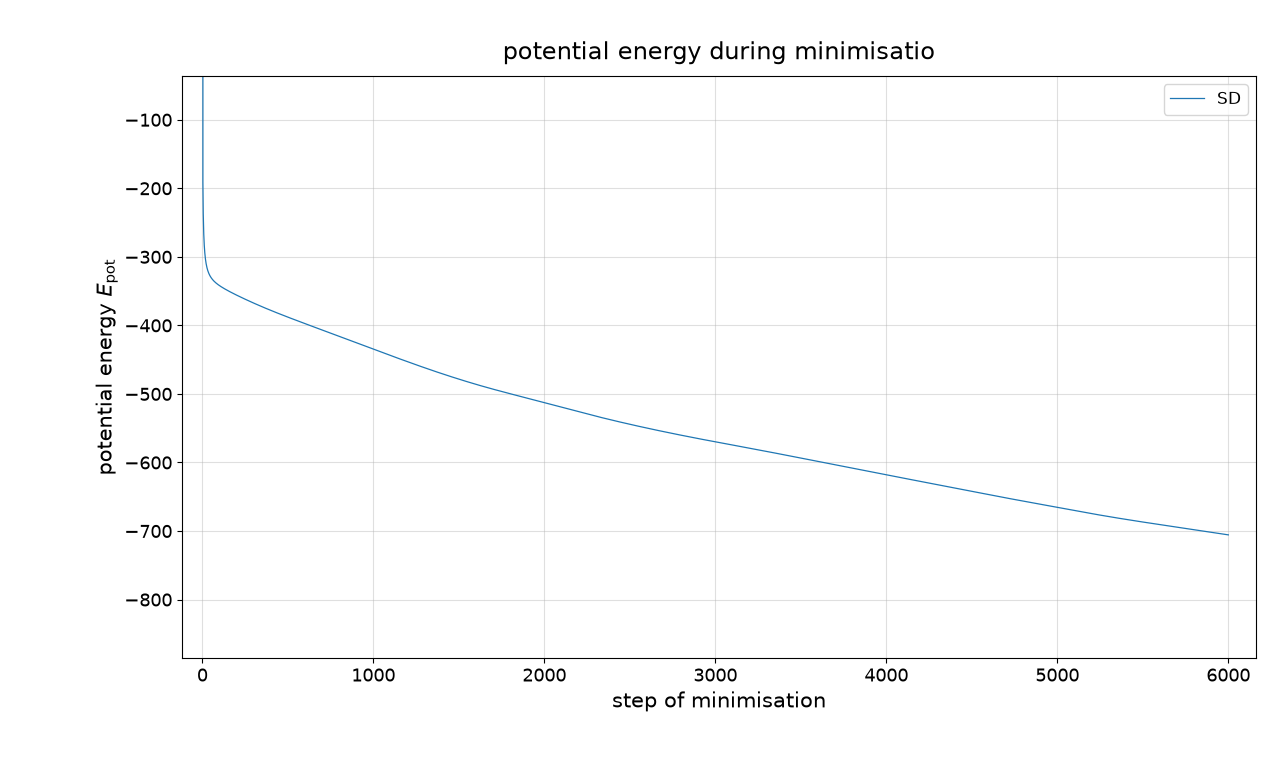
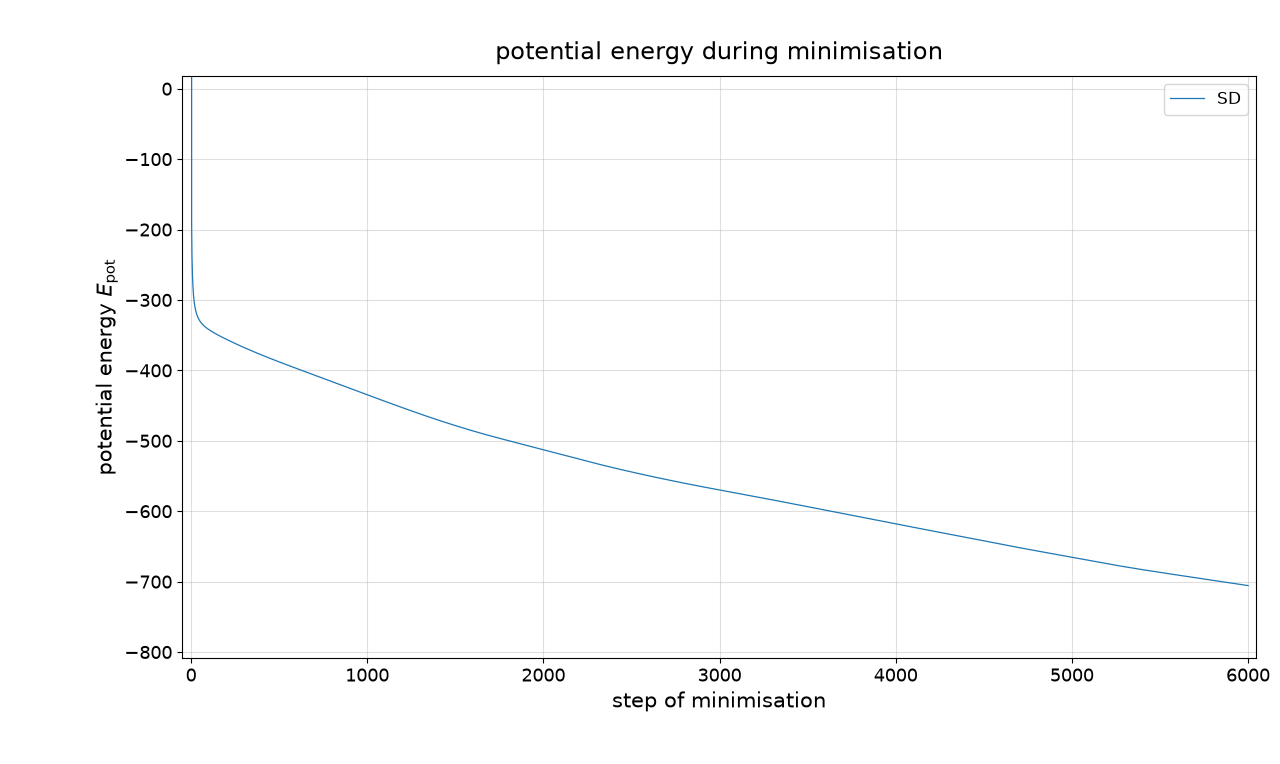
EPot1s

diff --git a/Methoden-vergleichen.py b/Methoden-vergleichen.py
@@ -311,7 +311,7 @@ plot_quantity(
 plot_quantity(
     column="E_pot",
     ylabel=r"potential energy $E_{\mathrm{pot}}$",
-    title="potential energy during minimisatio",
+    title="potential energy during minimisation",
     ylim=(-2600, 30),
     filename="vergleich_Epot.png"
 )
